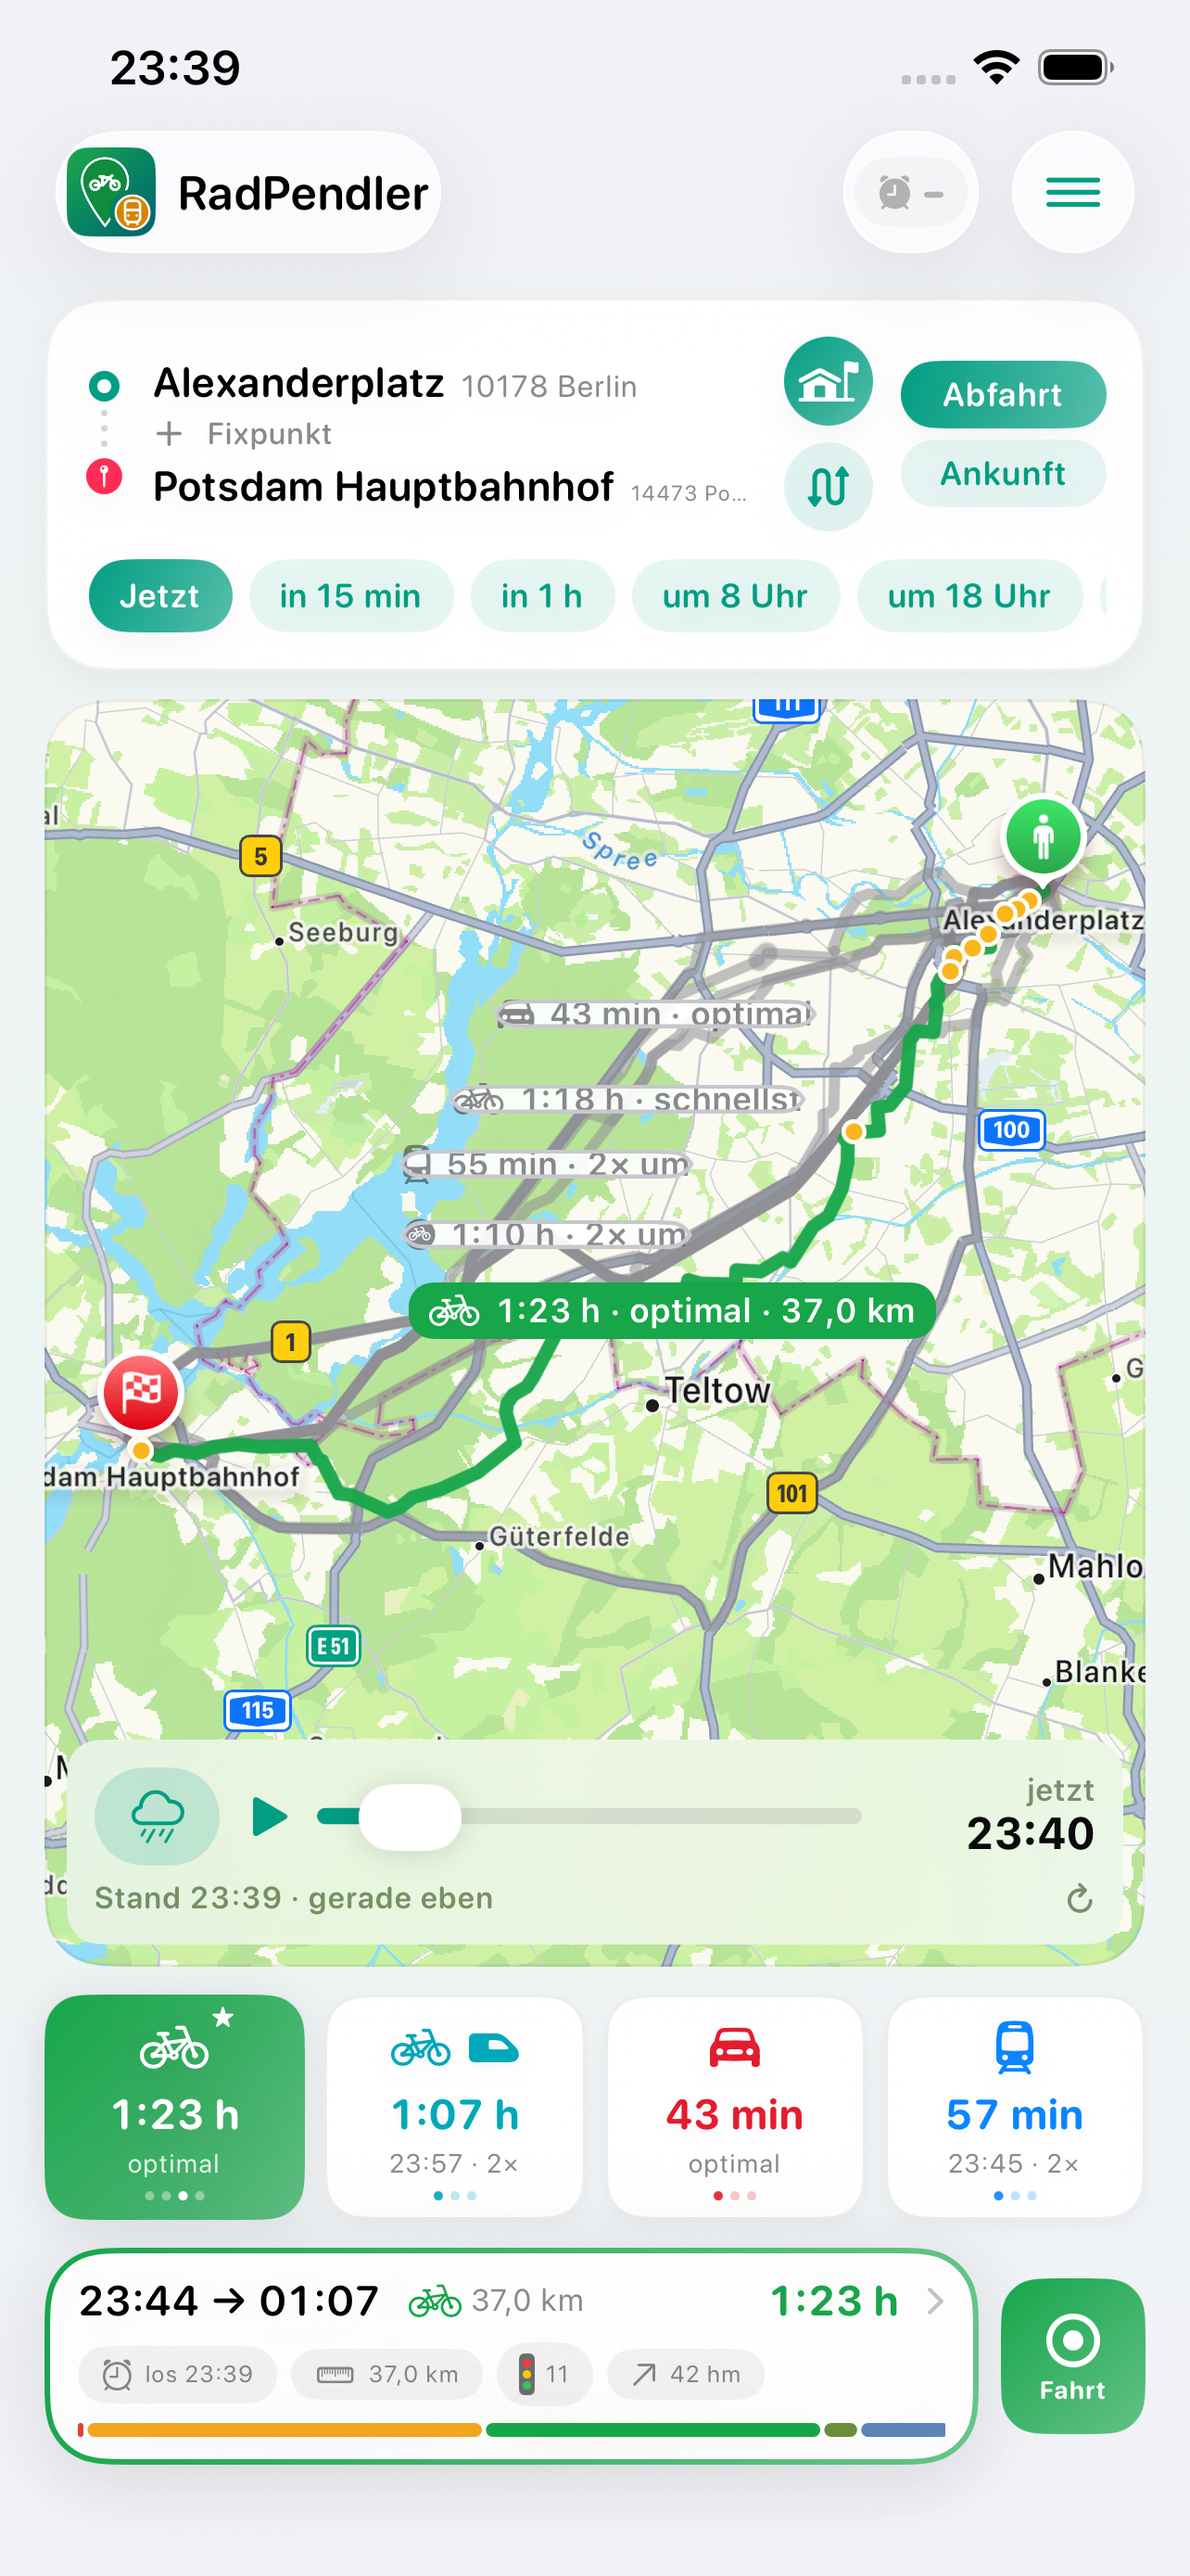
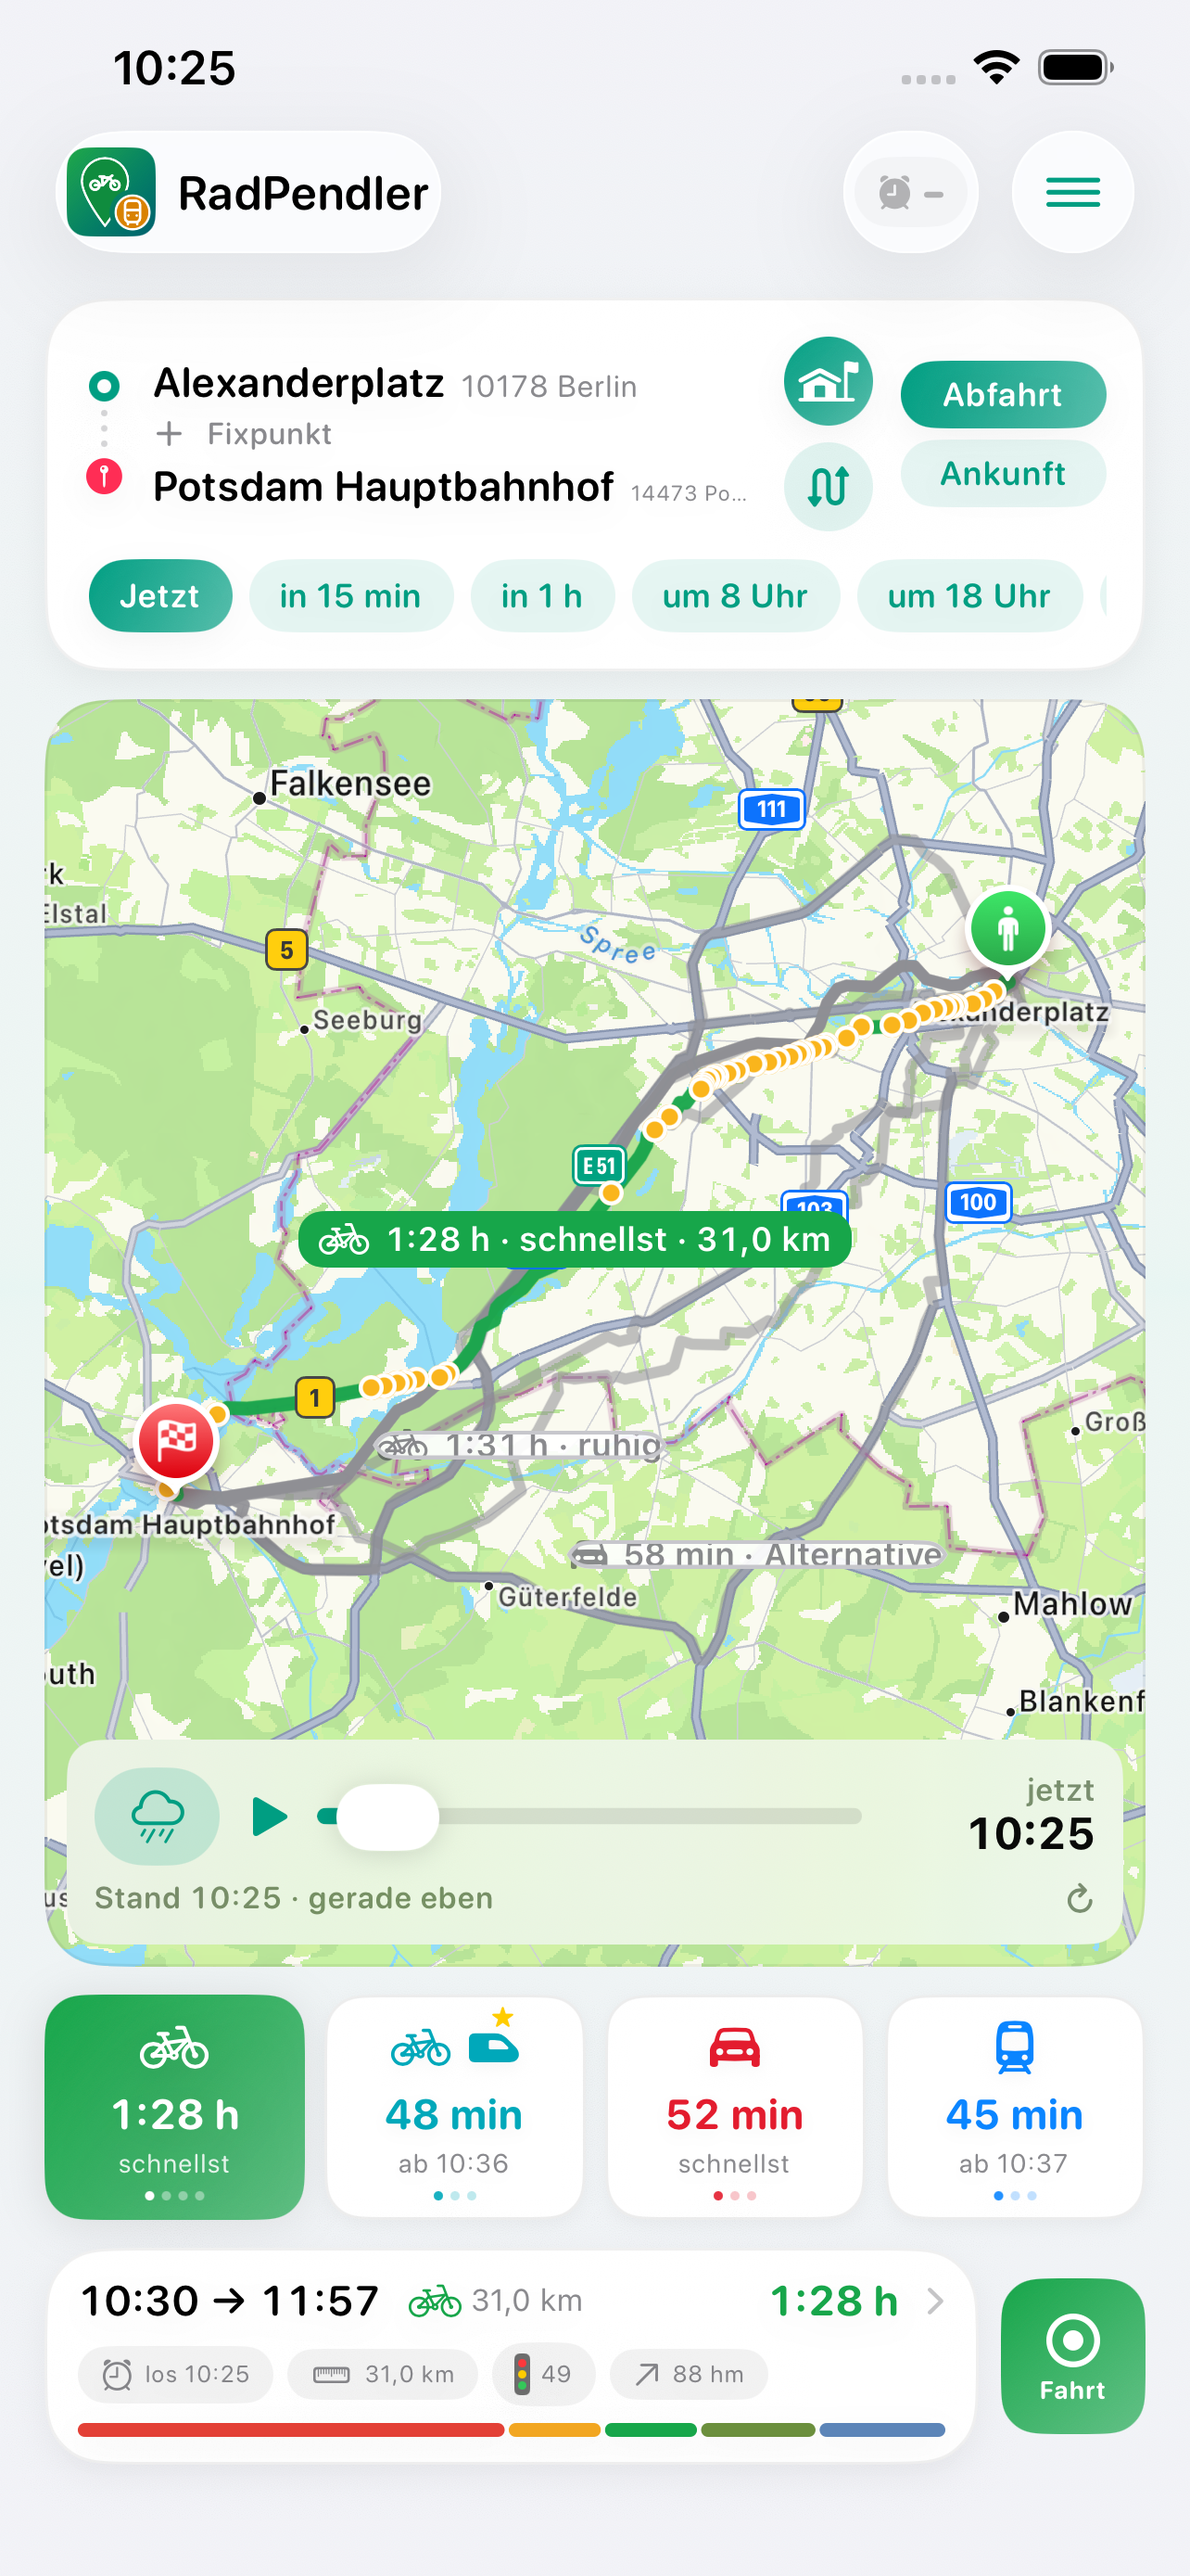
Store: Screenshots iPhone und iPad mit 1.18 (58), Einreichungs-Checkliste für 1.18
Claude-Session: https://claude.ai/code/session_01W7X6DqDkarXtPKmRV2Q2C8

diff --git a/appstore/metadata.md b/appstore/metadata.md
@@ -10,24 +10,31 @@ Fassung von Name, Untertitel, Keywords und Beschreibung steht am Ende und
 gehört in die Lokalisierung **Englisch (USA)**, damit die Seite in Stores
 außerhalb Deutschlands nicht leer aussieht.
 
-## Einreichungs-Checkliste (1.17, Build 57 — die einzureichende Fassung)
+## Einreichungs-Checkliste (1.18, Build 58 — die einzureichende Fassung)
 
-Was seit der 1.8.1-Liste dazugekommen ist; alles andere gilt wie dort.
+Was seit der 1.8.1-Liste dazugekommen ist; alles andere gilt wie dort. Im Store steht 1.13;
+1.14 bis 1.17 waren nur TestFlight.
 
-1. **Build 1.17 (57)** auswählen — liegt seit dem 07.10.2026 in TestFlight. Im Store steht 1.13.
-2. **Screenshots neu aufgenommen am 07.10.2026 mit Build 57** (iPhone und iPad): unter dem
-   Rad-Kasten stehen vier Wege, und in den Vorlieben vier Radrouten. Die Uhr-Bilder sind
-   unverändert.
-3. **Was ist neu** — Text unten, **für 1.17**, deutsch und englisch.
+1. **Build 1.18 (58)** auswählen — liegt seit dem 10.10.2026 in TestFlight.
+2. **Screenshots neu aufgenommen am 10.10.2026 mit Build 58**: `screenshots/iphone-6.5/`
+   (8 Bilder, 1284 × 2778) und `screenshots/ipad-13/` (7 Bilder, 2064 × 2752), in der Reihenfolge
+   der Dateinummern. Unter dem Rad-Kasten stehen vier Wege, die Radroute zeigt ihre Ampeln. Die
+   Uhr-Bilder (`screenshots/watch-46/`) sind unverändert. Die alten Bilder im Schacht vorher
+   löschen — App Store Connect hängt neue sonst hinten an.
+3. **Was ist neu** — Text unten, **für 1.18**, deutsch und englisch.
 4. **Beschreibung** deutsch und englisch: die Zeile „Fahrrad in vier Linien“ ersetzt die
    Aufzählung mit „wenig Autos“ und „wenig Halts“ — in beide Sprachen neu einfügen.
 5. **Hinweis an die Prüfung**: der englische Text zu allen drei Hintergrundmoden aus der
    1.8.1-Liste (Punkt 4, „Seit 07.10.2026 ausführlicher“).
-6. **Datenschutzseite vor dem Einreichen veröffentlichen**: `appstore/pages/radpendler-privacy/`
+6. **Kopfzeile und Suchergebnisse** (neuer Abschnitt in App Store Connect seit iOS 27): leer
+   lassen. Das sind freiwillige Werbeflächen; ohne sie zeigt der Store die Screenshots.
+7. **Datenschutzseite vor dem Einreichen veröffentlichen**: `appstore/pages/radpendler-privacy/`
    nach `deepskyplan.github.io/radpendler-privacy`. Die Fassung im Repository nennt die
    Adressen an externe Dienste im ersten Absatz und beschreibt die Aufzeichnung.
-7. App-Datenschutz-Fragebogen unverändert. Übertragen wird nichts Neues: die Profile für
+8. App-Datenschutz-Fragebogen unverändert. Übertragen wird nichts Neues: die Profile für
    „ruhig“ und „optimal“ gehen als Profiltext an brouter.de, ohne Koordinaten oder Kennung.
+   Neu **auf dem Gerät** (nicht übertragen): die Radrouten der letzten 24 Stunden im
+   Zwischenspeicher der App.
 
 ## Einreichungs-Checkliste (1.8.1, Build 45)
 
@@ -709,8 +716,8 @@ beiden Schächte annimmt, sind kurz; alles andere wird beim Hochladen abgelehnt:
 Ein 6,9″-Telefon (iPhone 17 Pro Max) nimmt mit 1320 × 2868 auf, und das steht
 **nicht** auf der Liste — der 6,5″-Satz muss aus einem 6,5″-Simulator kommen.
 
-Reihenfolge und der Bildtext, den jedes Bild tragen soll (Stand 07.10.2026,
-aufgenommen mit 1.17, Build 57):
+Reihenfolge und der Bildtext, den jedes Bild tragen soll (Stand 10.10.2026,
+aufgenommen mit 1.18, Build 58):
 
 **iPhone** — acht Bilder
 
@@ -804,6 +811,15 @@ mit diesem Namen die Einstellungsseite.
 geplanten Route, steht ein rotes „151 m neben der Route“ quer über dem Bild.
 Der Test fährt deshalb 80 Sekunden statt 45: dann hat die App von selbst neu
 geplant, das Band ist weg, und im Kopf steht stattdessen der Zähler „1×“.
+
+**Zwei weitere, am 10.10.2026 bezahlt:**
+
+- **Frisch installiert fehlen die Ampeln.** Antwortet OpenStreetMap beim ersten Plan nicht, steht
+  unter der Radroute „Ampeln und Hauptstraßen unbekannt“ und im Fahrtmodus „0 Ampelhalts“ — kein
+  Bild fürs Schaufenster. Dann den Test **ohne** neu zu installieren noch einmal laufen lassen
+  (`test-without-building`): die Daten sind inzwischen im Zwischenspeicher.
+- **`xcodebuild` endet nicht.** Nach dem letzten Test sammelt es bis zu zehn Minuten Diagnosen
+  (`simctl diagnose`). Steht „TEST EXECUTE SUCCEEDED“ schon da: `pkill -f 'simctl diagnos'`.
 
 **Zwei Fallen, beide am 26.09.2026 bezahlt:**
 
